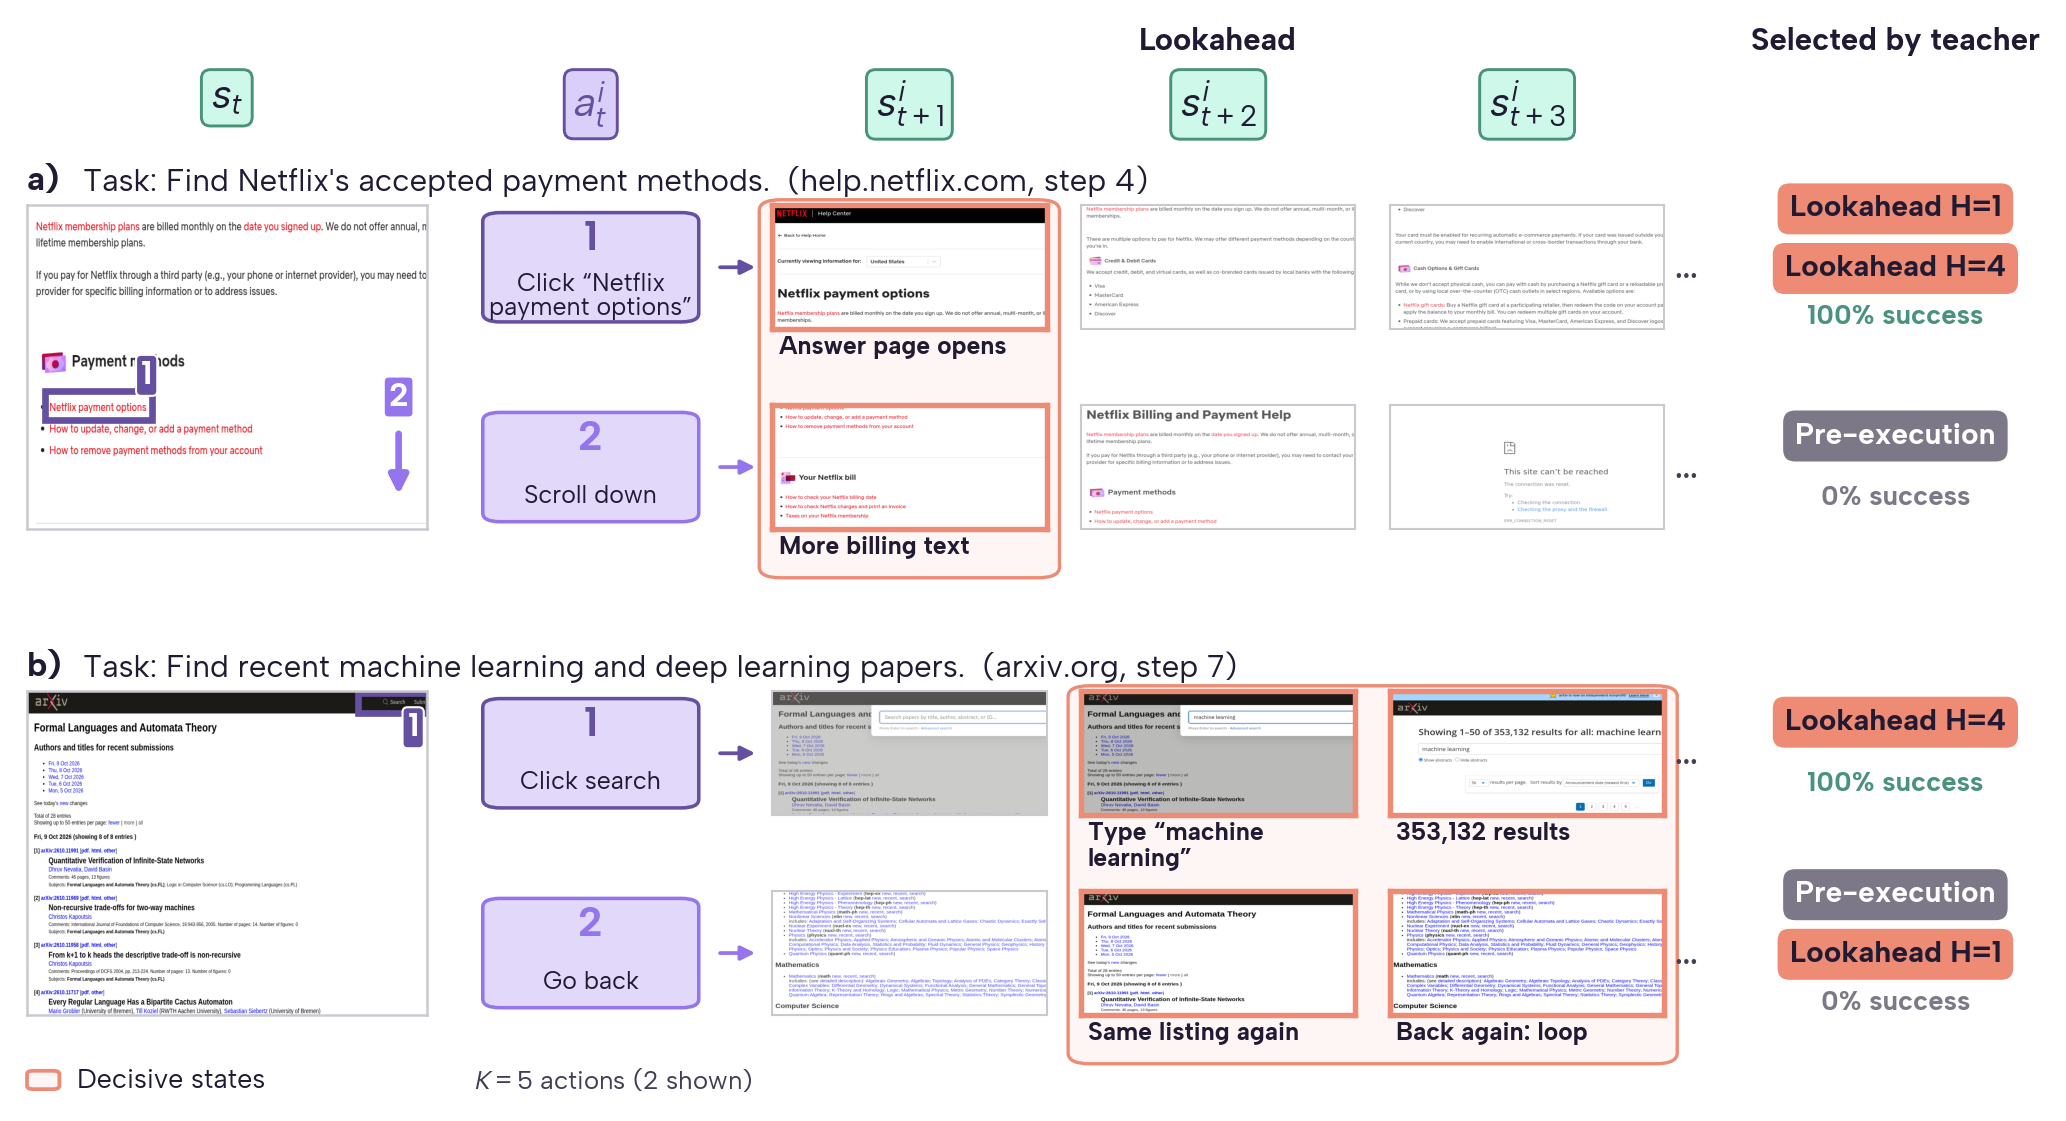
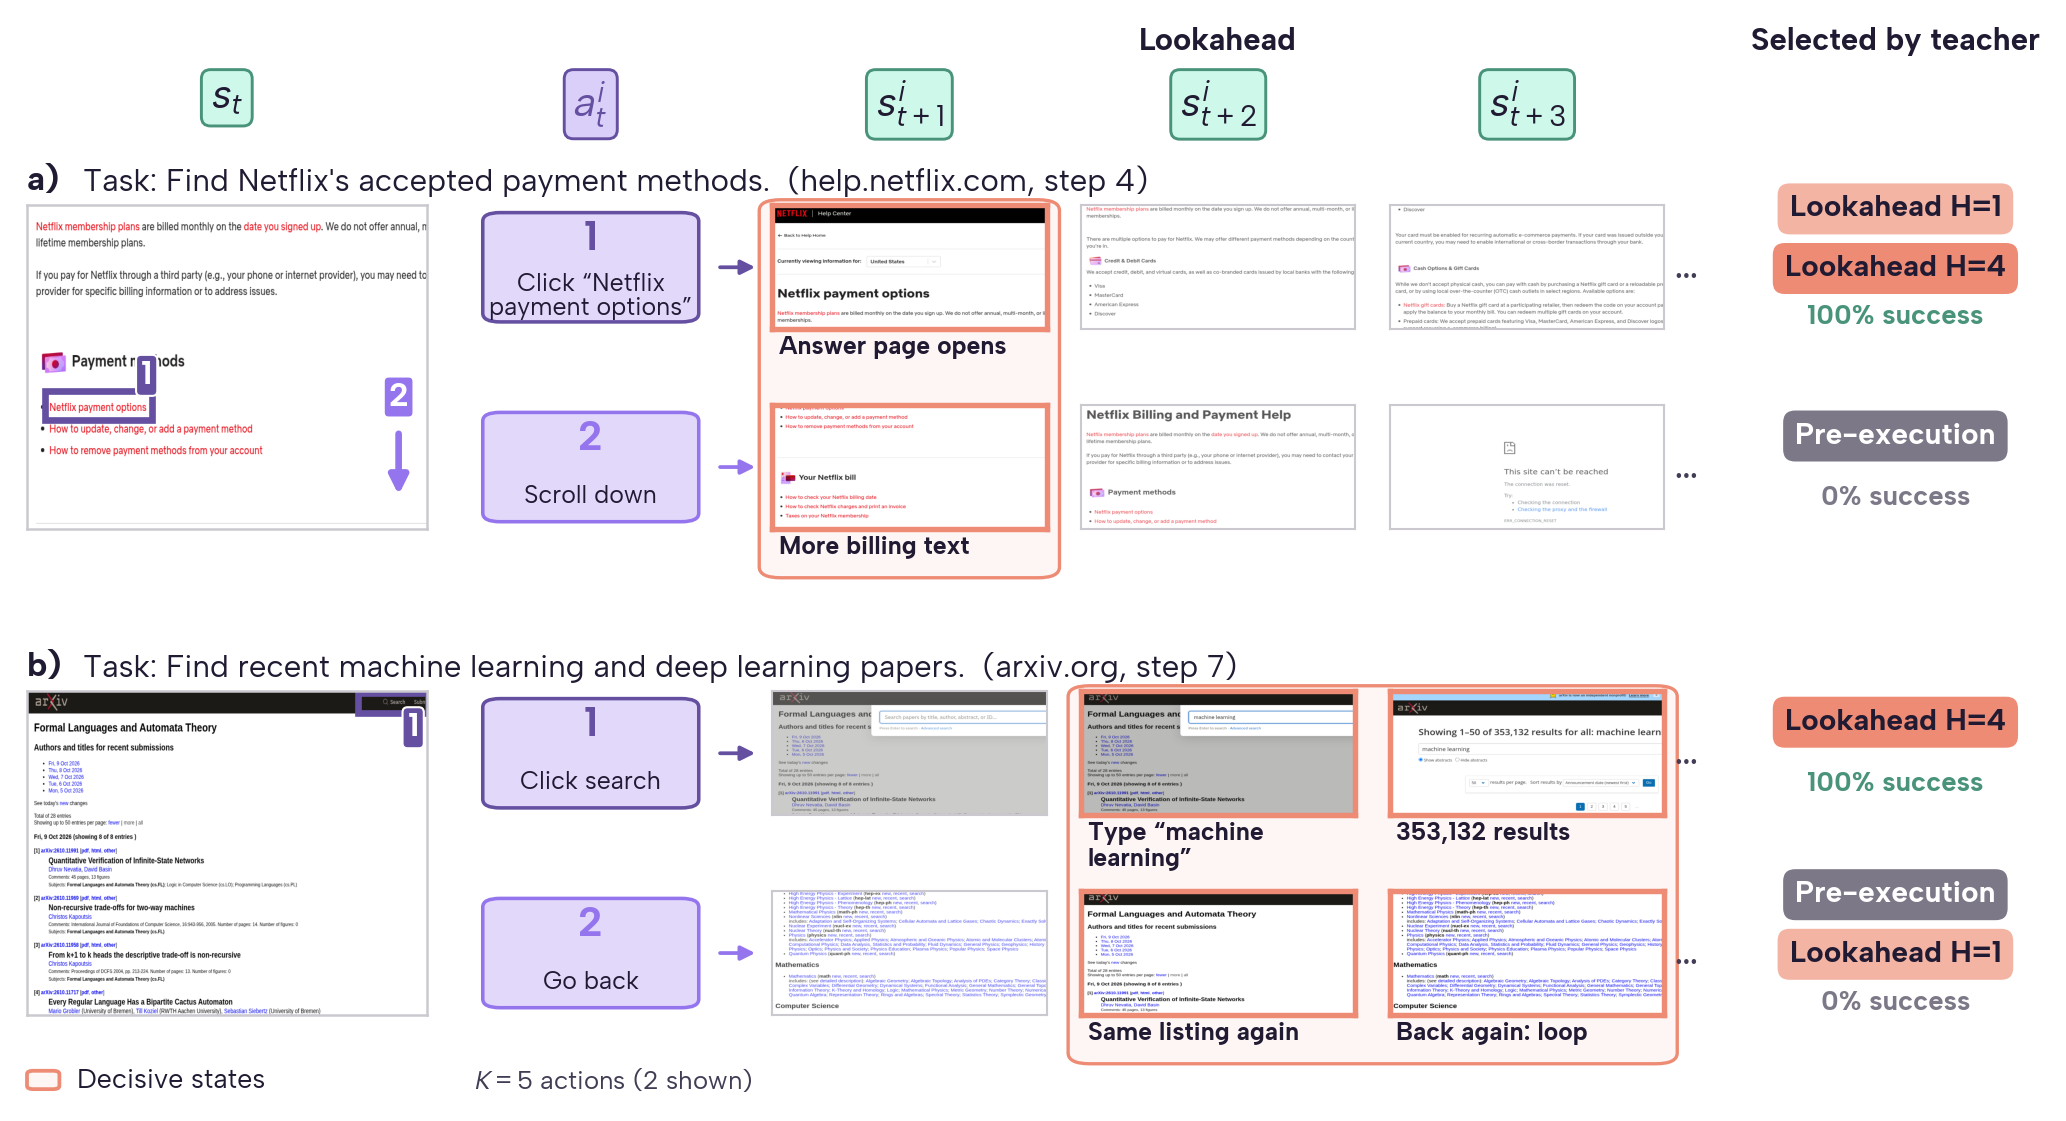
Use graded salmon colors for H1 and H4 teacher choices

Changed region(s): [[0.8364, 0.1561, 0.9913, 0.2186], [0.8364, 0.8118, 0.9913, 0.8742]]

diff --git a/openwebrl/docs/arm_results/luna_pre_post_k3_20261105/compact_examples.py b/openwebrl/docs/arm_results/luna_pre_post_k3_20261105/compact_examples.py
@@ -32,7 +32,9 @@ from paper_plot_palette import COLORS as C, tint
 
 HERE = Path(__file__).resolve().parent
 COLOR = {k: c for k, _, c in SRC}
-COLOR["post"] = C["LOOKAHEAD_TEACHER"]
+# Match the graded salmon horizons in the label-source plots: H=1 light, H=4 base.
+COLOR["post"] = "#F4B4A4"
+COLOR["k3"] = C["LOOKAHEAD_TEACHER"]
 NAME = {"pre": "Pre-execution", "post": "Lookahead", "k3": "Lookahead"}
 BAND, BANDEDGE = tint("LOOKAHEAD_EVIDENCE", 0.92), C["LOOKAHEAD_EVIDENCE"]
 GOODC, BADC = C["SUCCESS"], C["FAILURE"]
